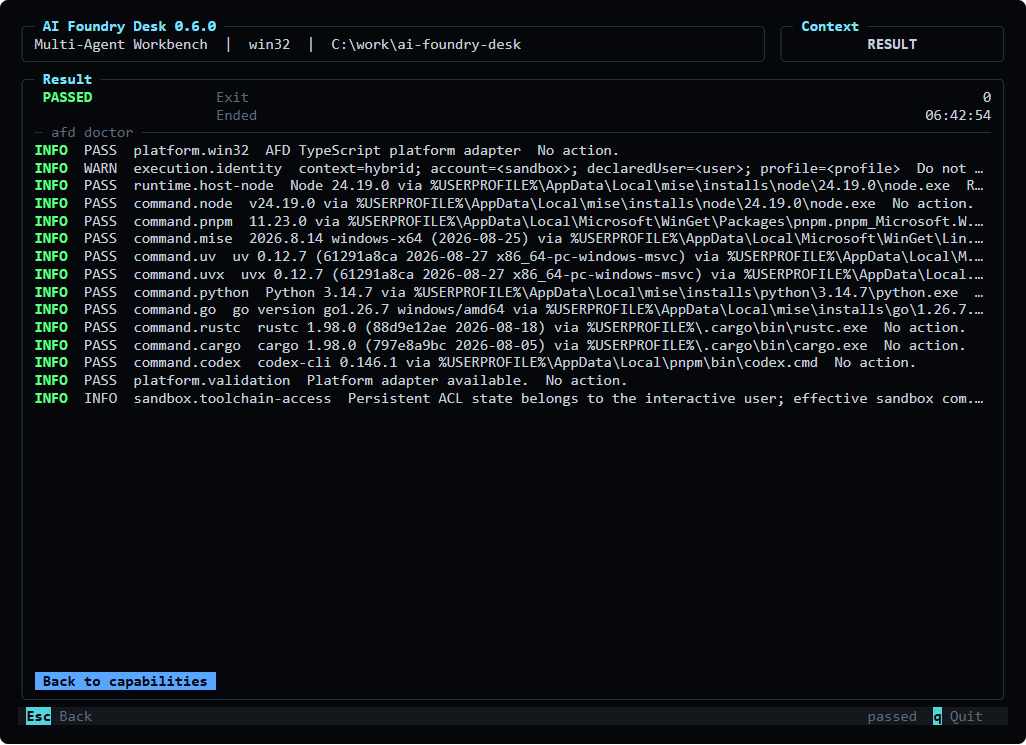
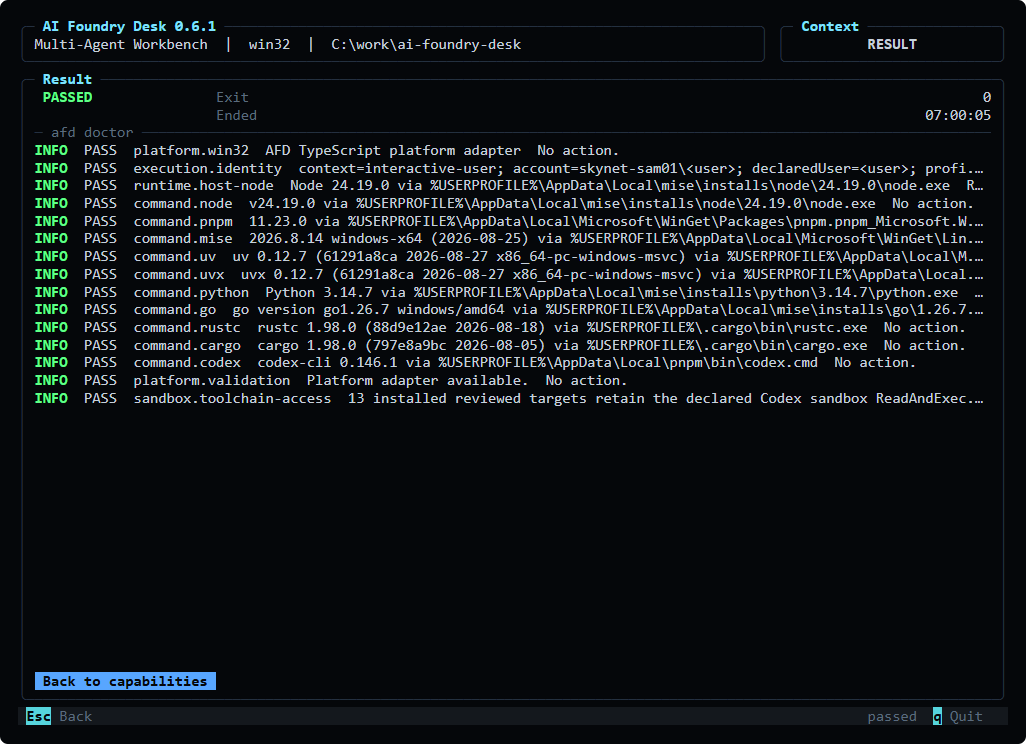
fix: publish AFD 0.6.1 release assets

diff --git a/agent-manager/test/cli.test.ts b/agent-manager/test/cli.test.ts
@@ -13,7 +13,7 @@ function isolatedCli(root: string, ...args: string[]) { return spawnSync(process
 test("help and version use the afd brand", () => {
   const help = cli("--help"); const version = cli("--version");
   assert.equal(help.status, 0); assert.match(help.stdout, /AI Foundry Desk/); assert.match(help.stdout, /afd layer1/); assert.match(help.stdout, /afd tui/);
-  assert.equal(version.status, 0); assert.equal(version.stdout.trim(), "0.6.0");
+  assert.equal(version.status, 0); assert.equal(version.stdout.trim(), "0.6.1");
 });
 
 test("TUI refuses non-interactive streams and preserves CLI parity", () => {
@@ -39,7 +39,7 @@ test("doctor and fix expose safe argument contracts", () => {
 test("provenance identifies the running CLI and hybrid repair fails closed", () => {
   const provenance = cli("provenance", "--json"); const repair = cli("fix", "layer1", "--dry-run");
   assert.equal(provenance.status, 0); const value = JSON.parse(provenance.stdout) as { version?: string; cli?: string; identity?: { context?: string } };
-  assert.equal(value.version, "0.6.0"); assert.match(value.cli ?? "", /cli\.js$/);
+  assert.equal(value.version, "0.6.1"); assert.match(value.cli ?? "", /cli\.js$/);
   if (value.identity?.context === "hybrid") { assert.notEqual(repair.status, 0); assert.match(repair.stderr, /identity do not match/); }
 });
 

diff --git a/agent-manager/test/tui.test.ts b/agent-manager/test/tui.test.ts
@@ -52,7 +52,7 @@ test("typed application service and CLI adapter share command behavior", async (
   const result = await executeAfdUseCase(["--version"]);
   assert.equal(result.exitCode, 0);
   assert.equal(result.outcome, "passed");
-  assert.equal(result.events.map((event) => event.text).join("").trim(), "0.6.0");
+  assert.equal(result.events.map((event) => event.text).join("").trim(), "0.6.1");
 });
 
 test("TUI renders real responsive screens at wide, standard, and compact sizes", () => {

diff --git a/agent-manager/src/command-service.ts b/agent-manager/src/command-service.ts
@@ -30,7 +30,7 @@ import { discoverNativeMcp, piMcpAdapterConfigured } from "./mcp-formats.js";
 import { mcpCapabilities, type McpManagerOptions, type McpScope } from "./mcp-contracts.js";
 import { sha256 } from "./mcp-registry.js";
 
-export const VERSION = "0.6.0";
+export const VERSION = "0.6.1";
 const productRoot = path.resolve(path.dirname(fileURLToPath(import.meta.url)), "..", "..");
 export const help = `afd — AI Foundry Desk · Multi-Agent Workbench
 

diff --git a/README.md b/README.md
@@ -121,7 +121,7 @@ Windows bootstrap and checksum separately, verifies SHA-256, and installs only t
 It does **not** configure either Layer automatically.
 
 ```powershell
-$v='0.6.0'; $u="https://github.com/smota/ai-foundry-desk/releases/download/v$v"; $d=Join-Path $env:TEMP "afd-$v"; New-Item -ItemType Directory -Force $d | Out-Null; Invoke-WebRequest "$u/afd-bootstrap-windows.ps1" -OutFile "$d/afd-bootstrap-windows.ps1"; Invoke-WebRequest "$u/afd-bootstrap-windows.ps1.sha256" -OutFile "$d/afd-bootstrap-windows.ps1.sha256"; $e=((Get-Content "$d/afd-bootstrap-windows.ps1.sha256") -split '\s+')[0]; if((Get-FileHash "$d/afd-bootstrap-windows.ps1" -Algorithm SHA256).Hash -ne $e){throw 'AFD bootstrap checksum mismatch'}; & "$d/afd-bootstrap-windows.ps1" -Version $v
+$v='0.6.1'; $u="https://github.com/smota/ai-foundry-desk/releases/download/v$v"; $d=Join-Path $env:TEMP "afd-$v"; New-Item -ItemType Directory -Force $d | Out-Null; Invoke-WebRequest "$u/afd-bootstrap-windows.ps1" -OutFile "$d/afd-bootstrap-windows.ps1"; Invoke-WebRequest "$u/afd-bootstrap-windows.ps1.sha256" -OutFile "$d/afd-bootstrap-windows.ps1.sha256"; $e=((Get-Content "$d/afd-bootstrap-windows.ps1.sha256") -split '\s+')[0]; if((Get-FileHash "$d/afd-bootstrap-windows.ps1" -Algorithm SHA256).Hash -ne $e){throw 'AFD bootstrap checksum mismatch'}; & "$d/afd-bootstrap-windows.ps1" -Version $v
 ```
 
 The bootstrap requires Node.js 24 or newer and pnpm. If a prerequisite is missing, it stops and
@@ -254,7 +254,7 @@ Never use a blind remote pipe; download the script and checksum separately befor
 Validated Linux/WSL bootstrap (downloads, verifies, then executes as separate steps):
 
 ```sh
-v=0.6.0; base="https://github.com/smota/ai-foundry-desk/releases/download/v$v"; dir="$(mktemp -d)"; curl -fL "$base/afd-bootstrap-posix.sh" -o "$dir/afd-bootstrap-posix.sh"; curl -fL "$base/afd-bootstrap-posix.sh.sha256" -o "$dir/afd-bootstrap-posix.sh.sha256"; (cd "$dir" && sha256sum -c afd-bootstrap-posix.sh.sha256); sh "$dir/afd-bootstrap-posix.sh" --version "$v"
+v=0.6.1; base="https://github.com/smota/ai-foundry-desk/releases/download/v$v"; dir="$(mktemp -d)"; curl -fL "$base/afd-bootstrap-posix.sh" -o "$dir/afd-bootstrap-posix.sh"; curl -fL "$base/afd-bootstrap-posix.sh.sha256" -o "$dir/afd-bootstrap-posix.sh.sha256"; (cd "$dir" && sha256sum -c afd-bootstrap-posix.sh.sha256); sh "$dir/afd-bootstrap-posix.sh" --version "$v"
 ```
 
 Docker is a Layer 1 host capability, not an AFD runtime. Layers 1–3 run directly on the host. Higher

diff --git a/docs/VALIDATION-MATRIX.md b/docs/VALIDATION-MATRIX.md
@@ -11,7 +11,7 @@ session, not only in the interactive user shell.
 | Toolchain | Raw shell commands for Node 24, pnpm 11.23.0, mise, uv/uvx, Python 3.14, Go 1.26, and Rust/Cargo 1.98 resolve and execute within bounded time without substituting direct runtime paths for broken shims. |
 | Product | `pnpm check` passes lint, typecheck, tests, and build. |
 | Process lifecycle | The process-tree fixture times out and leaves its parent, child, and grandchild stopped. |
-| Provenance | Workspace and global CLI report AFD 0.6.0 and identify their CLI/runtime paths. |
+| Provenance | Workspace and global CLI report AFD 0.6.1 and identify their CLI/runtime paths. |
 | Doctor | No `FAIL` diagnostic remains; a hybrid context never recommends or performs profile/HKCU repair. |
 | Observability — runtime | One confirmed recipe apply activates every declared component without nested confirmation. The current-user broker owns bounded lifecycle operations; agentacct runs in an AFD-managed native environment while Phoenix retains its separate WSL runtime. `afd telemetry verify` proves Collector, Phoenix, agentacct, broker routing, loopback/privacy policy, schema compatibility, an allowlisted control attribute, and synthetic rejection canaries. Contract and live-health gates are separate. |
 | Observability — release | A disposable supported run is resolved by `explain`; restart and rollback pass on a fresh workstation; recipe-bound PEP 751 locks and the CycloneDX SBOM are complete; and no capability declared required is degraded. Native Codex import reads the declared local store through agentacct's public importer without copying transcripts. |

diff --git a/CHANGELOG.md b/CHANGELOG.md
@@ -2,6 +2,21 @@
 
 ## Unreleased
 
+## 0.6.1 — 2026-09-01
+
+- Explore all 74 AFD actions from one interactive terminal workspace with `afd tui`, organized by
+  outcome so you can discover the right workflow without memorizing commands.
+- Search capabilities, edit inputs without shell quoting, review structured results, and move between
+  keyboard-accessible responsive layouts. High-contrast, monochrome, ASCII, reduced-motion, and
+  mouse-free modes keep the interface usable across terminals and accessibility needs.
+- Keep control of every change: read-only actions run directly, while writes show their scope and
+  require the same explicit confirmation, safety tokens, drift checks, receipts, and rollback
+  protections as the CLI.
+- Use the CLI and TUI interchangeably without behavioral surprises because both interfaces call the
+  same application and command services.
+- Install from checksummed release assets produced by a corrected Windows publication workflow that
+  creates its isolated temporary directory before dependency setup.
+
 ## 0.6.0 — 2026-09-01
 
 - Explore all 74 AFD actions from one interactive terminal workspace with `afd tui`, organized by

diff --git a/docs/CLI.md b/docs/CLI.md
@@ -1,7 +1,7 @@
 # `afd` command-line reference
 
 `afd` is the single command-line entry point for AI Foundry Desk. This reference documents every
-user-facing command and the operational maintenance commands present in version 0.6.0. Run
+user-facing command and the operational maintenance commands present in version 0.6.1. Run
 `afd help` for the compact syntax summary and `afd --version` for the installed version.
 
 ## Command model
